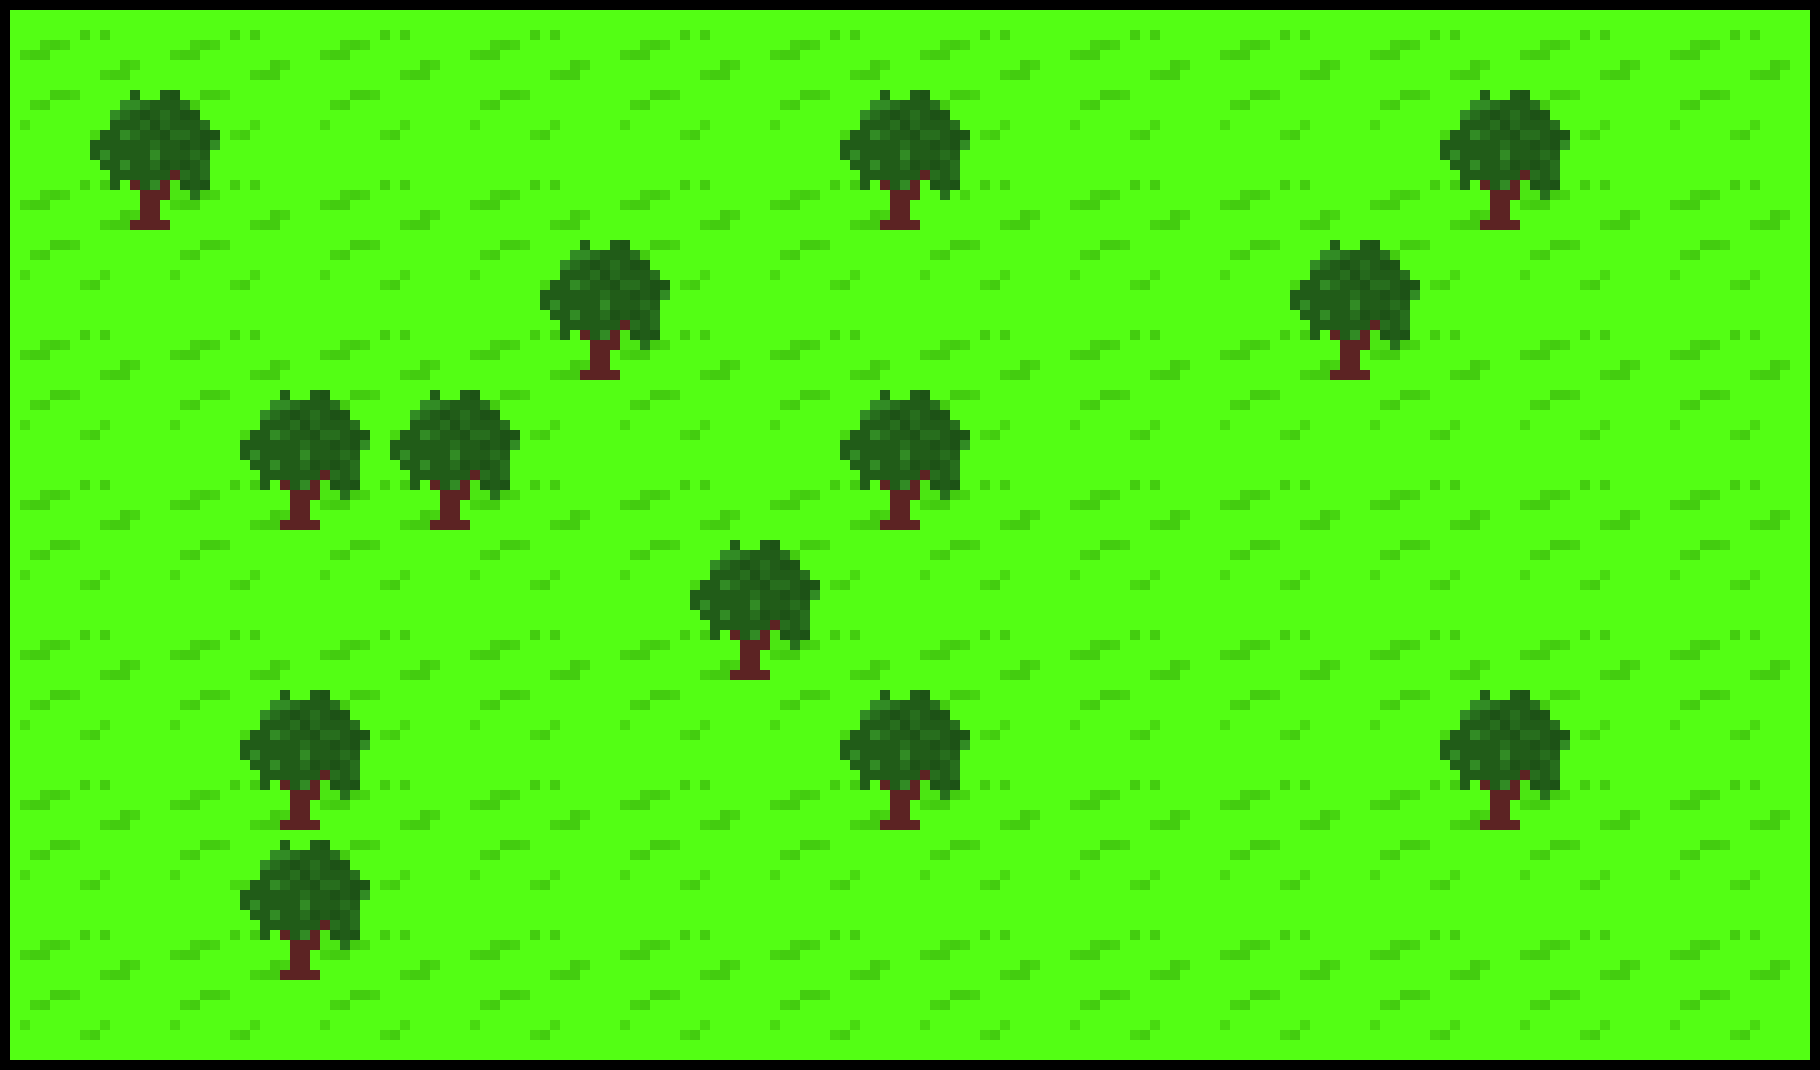
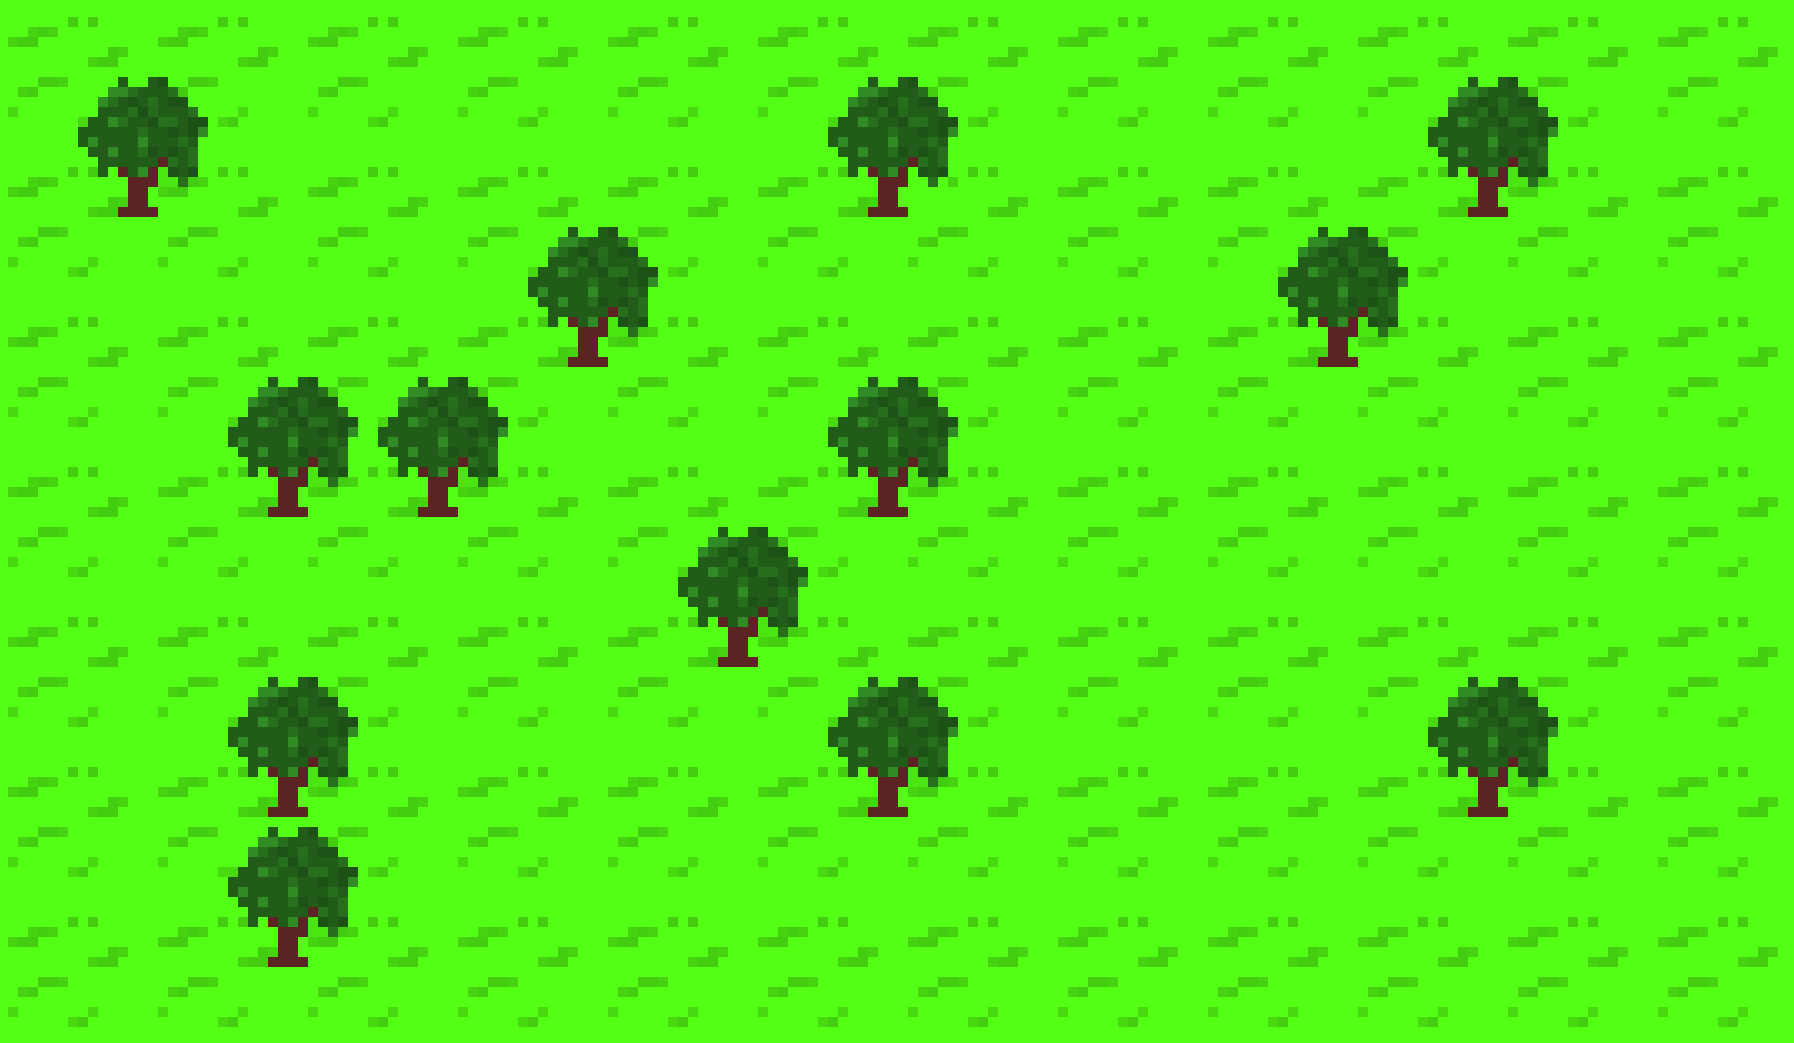
Обновил картинку

diff --git a/src/game_map/game_map.cpp b/src/game_map/game_map.cpp
@@ -10,7 +10,7 @@ GameMap::GameMap( const std::string& backgroundFilePath) {
         // Устанавливаем размер фона по размеру окна
         backgroundSprite.setScale(
             static_cast<float>(1920u) / backgroundTexture.getSize().x,
-            static_cast<float>(1080u) / backgroundTexture.getSize().y
+            static_cast<float>(1080) / backgroundTexture.getSize().y
         );
     }
 }
